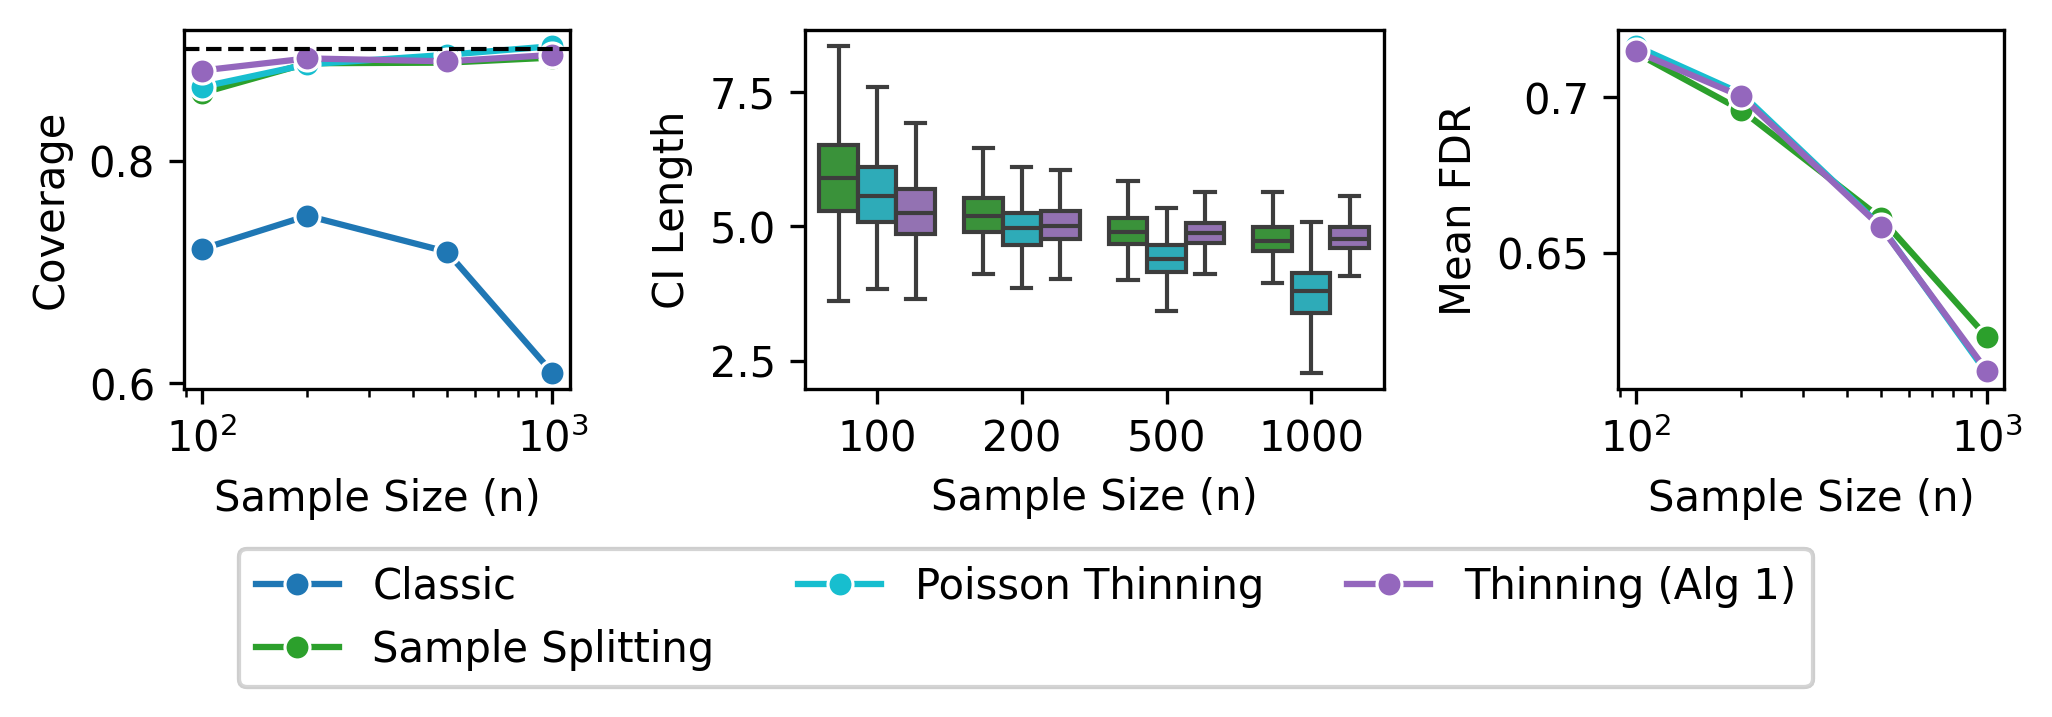
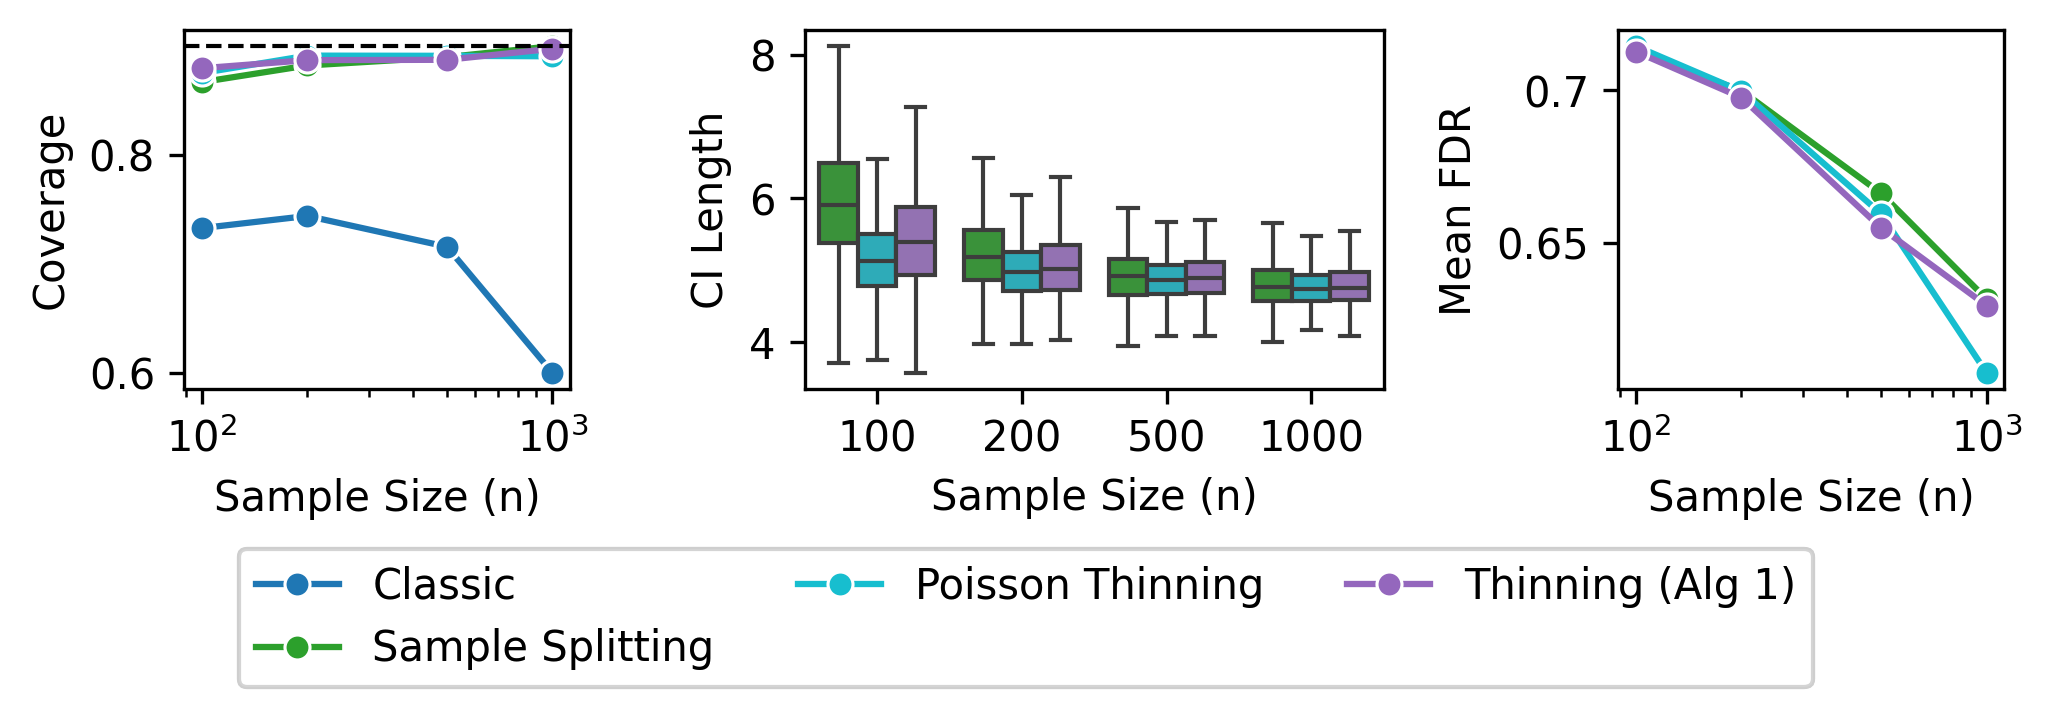
poisson overdispered

diff --git a/experiments/glm_confints.py b/experiments/glm_confints.py
@@ -229,9 +229,9 @@ def poisson_thinning_si(X, Y, mu, penalty, level, gamma, intercept):
 
     epsilon = gamma / (1 + gamma) mirrors the sample-splitting convention.
 
-    An intercept is always included: Y_thin ~ Poisson(epsilon*mu) =
-    Poisson(exp(X beta + log(epsilon))), so the intercept absorbs log(epsilon)
-    and the slope estimands are identical to those of classic_si.
+    Both halves are rescaled by their epsilon factors to restore mean mu,
+    so no intercept offset adjustment is required and the intercept flag
+    is respected as-is.
     """
     n, _ = X.shape
     epsilon = gamma / (1 + gamma)
@@ -274,7 +274,7 @@ def poisson_thinning_si(X, Y, mu, penalty, level, gamma, intercept):
         sum(cover),
         sum(rejects),
         sum(np.abs(beta_est - beta_sel)),
-        len(sel) + 1,  # +1 for the always-included intercept
+        len(sel) + intercept,
         sum(length),
         ",".join(map(str, sel)),
     ]
@@ -296,12 +296,15 @@ def negbinom_thinning_si(X, Y, mu, penalty, level, gamma, intercept, theta=None)
     adjustment is needed.
 
     epsilon = gamma / (1 + gamma) mirrors the sample-splitting convention.
-    An intercept is always included.
+    Both halves are rescaled by their epsilon factors to restore mean mu,
+    so no intercept offset adjustment is required and the intercept flag
+    is respected as-is.
 
     When ``theta`` is ``None`` (the default), it is estimated from the full
     data via an initial unpenalized (n > p) or penalized (n <= p) NB GLM
     fit with IRLS, analogous to how ``thin_outcomes_si`` estimates the
-    working variance when ``Y_var`` is not supplied.
+    working variance when ``Y_var`` is not supplied.  The estimated theta
+    is then used for all subsequent thinning and fitting steps.
     """
     from scipy.stats import betabinom as _betabinom
 
@@ -337,7 +340,7 @@ def negbinom_thinning_si(X, Y, mu, penalty, level, gamma, intercept, theta=None)
         )
 
     sel = (
-        GLM(family="negative_binomial", l1_penalty=penalty, intercept=intercept)
+        GLM(family="negative_binomial", l1_penalty=penalty, intercept=intercept, theta=theta)
         .fit(X, Y_train)
         .active()
     )
@@ -346,7 +349,7 @@ def negbinom_thinning_si(X, Y, mu, penalty, level, gamma, intercept, theta=None)
         return [0, 0, 0, 0, 0, None]
 
     X_sel = X[:, sel]
-    model = GLM(family="negative_binomial", intercept=intercept).fit(X_sel, Y_thin)
+    model = GLM(family="negative_binomial", intercept=intercept, theta=theta).fit(X_sel, Y_thin)
     beta_est = model.beta_
     conf_int = model.conf_int(X_sel, level=level)
     length = conf_int[:, 1] - conf_int[:, 0]
@@ -360,7 +363,7 @@ def negbinom_thinning_si(X, Y, mu, penalty, level, gamma, intercept, theta=None)
         sum(cover),
         sum(rejects),
         sum(np.abs(beta_est - beta_sel)),
-        len(sel) + 1,  # +1 for always-included intercept
+        len(sel) + intercept,
         sum(length),
         ",".join(map(str, sel)),
     ]
@@ -385,19 +388,23 @@ def thin_outcomes_si(
     if glm_kwargs is None:
         glm_kwargs = {}
 
+    # Use overdispersed variance for Poisson to account for extra-Poisson variation
+    # in the noise scaling; for other families the model variance is already adequate.
+    overdispersed = family == "poisson"
+
     if Y_var is not None:
         Y_var_noise = Y_var
     elif X.shape[0] > X.shape[1] + 1:  # n > p
         Y_var_noise = (
             GLM(family=family, intercept=True, **glm_kwargs)
             .fit(X, Y)
-            .get_var(X, Y, error_model, clusters=clusters)
+            .get_var(X, Y, error_model, clusters=clusters, overdispersed=overdispersed)
         )
     else:  # p > n
         Y_var_noise = (
             GLM(family=family, intercept=True, l1_penalty=penalty, **glm_kwargs)
             .fit(X, Y)
-            .get_var(X, Y, error_model, clusters=clusters)
+            .get_var(X, Y, error_model, clusters=clusters, overdispersed=overdispersed)
         )
 
     if clusters is not None:
@@ -845,7 +852,9 @@ def run_simulation(
         else:
             Y = np.random.poisson(mu).astype(float)
         if true_noise_var:
-            Y_var = mu * dispersion # Poisson variance equals mean
+            # Poisson variance equals mean. Otherwise,
+            # the overdisped NB variance, mu + mu**2 / nb_disp.
+            Y_var = mu * dispersion
 
     elif family == "negative_binomial":
         if misspecified in ("var", "both"):

diff --git a/m_estimation_SI/penalized_glm.py b/m_estimation_SI/penalized_glm.py
@@ -73,6 +73,13 @@ class GLM:
         :meth:`fit`).  Equals the user-supplied ``theta`` when provided,
         or the IRLS estimate when ``theta=None``.  ``None`` for all other
         families.
+    phi_ : float
+        Pearson overdispersion estimate (set after :meth:`fit`).
+        Computed as ``(1 / dof) * sum((y - mu)^2 / V(mu))`` where
+        ``V(mu)`` is the GLM variance function and ``dof = n - p``
+        (number of non-zero coefficients).  A value near 1 indicates a
+        well-calibrated model; values appreciably above 1 indicate
+        overdispersion relative to the fitted family.
 
     Examples
     --------
@@ -138,6 +145,7 @@ class GLM:
         self.loss_ = None
         self.residuals_ = None
         self.theta_ = None
+        self.phi_ = None
 
     def fit(self, X: np.ndarray, y: np.ndarray) -> "GLM":
         """Fit the model.
@@ -165,6 +173,11 @@ class GLM:
             self._solve_problem(X_fit, y)
         self.theta_ = self.theta if self.family == "negative_binomial" else None
         self.residuals_ = y - self.predict(X)
+        # Pearson overdispersion: (1/dof) * sum((y - mu)^2 / V(mu))
+        mu_fit = self.loss_.predict_(X_fit, self.beta_)
+        V_fit = self.loss_.get_model_var_(X_fit, self.beta_)
+        dof = max(X_fit.shape[0] - int(np.sum(self.beta_ != 0)), 1)
+        self.phi_ = float(np.sum((y - mu_fit) ** 2 / np.maximum(V_fit, 1e-10)) / dof)
         return self
 
     def _solve_problem(self, X: np.ndarray, y: np.ndarray):
@@ -348,6 +361,7 @@ class GLM:
         Y: np.ndarray,
         error_model=None,
         clusters=None,
+        overdispersed: bool = False,
     ):
         """Estimate outcome variances under a working error model.
 
@@ -369,6 +383,12 @@ class GLM:
         clusters : ndarray of shape (n_samples,) or None
             Integer cluster labels.  Required when
             ``error_model='clustered'``.
+        overdispersed : bool, default False
+            If ``True``, scale the model-based variance by the fitted
+            Pearson overdispersion ``phi_``, i.e. return
+            ``phi_ * V(mu_i)`` per observation.  This replaces the
+            raw ``get_var_`` estimate and is applied before any
+            ``error_model`` pooling.
 
         Returns
         -------
@@ -386,7 +406,10 @@ class GLM:
         X_fit = np.hstack([np.ones((X.shape[0], 1)), X]) if self.intercept else X
         n, p = X_fit.shape
 
-        var_est = self.loss_.get_var_(X_fit, self.beta_, Y)
+        if overdispersed:
+            var_est = self.phi_ * self.loss_.get_model_var_(X_fit, self.beta_)
+        else:
+            var_est = self.loss_.get_var_(X_fit, self.beta_, Y)
 
         if error_model == "homogeneous":
             pdim = np.sum(self.beta_ != 0)

diff --git a/m_estimation_SI/losses.py b/m_estimation_SI/losses.py
@@ -147,6 +147,10 @@ class logistic_loss_smooth(smooth_atom):
         mu = self.predict_(X, beta)
         return mu * (1 - mu)
 
+    def get_model_var_(self, X: np.ndarray, beta: np.ndarray) -> np.ndarray:
+        """GLM variance function V(mu) = mu(1-mu) for the Bernoulli family."""
+        return self.get_var_(X, beta)
+
 
 class least_squares_loss_smooth(smooth_atom):
     """Mean-scaled least-squares loss for linear regression.
@@ -266,6 +270,10 @@ class least_squares_loss_smooth(smooth_atom):
         """
         return (y - X @ beta) ** 2
 
+    def get_model_var_(self, X: np.ndarray, _beta: np.ndarray) -> np.ndarray:
+        """GLM variance function V(mu) = 1 for the Gaussian family."""
+        return np.ones(X.shape[0])
+
 
 class poisson_loss_smooth(smooth_atom):
     """Mean-scaled negative log-likelihood for Poisson regression.
@@ -383,6 +391,10 @@ class poisson_loss_smooth(smooth_atom):
         ndarray of shape (n_samples,)
             ``exp(x_i^\\top beta)`` for each observation.
         """
+        return self.predict_(X, beta)
+
+    def get_model_var_(self, X: np.ndarray, beta: np.ndarray) -> np.ndarray:
+        """GLM variance function V(mu) = mu for the Poisson family."""
         return self.predict_(X, beta)
 
 
@@ -519,3 +531,7 @@ class negative_binomial_loss_smooth(smooth_atom):
         """
         mu = self.predict_(X, beta)
         return mu + mu ** 2 / self.theta
+
+    def get_model_var_(self, X: np.ndarray, beta: np.ndarray) -> np.ndarray:
+        """GLM variance function V(mu) = mu + mu^2/theta for the NB family."""
+        return self.get_var_(X, beta)

diff --git a/experiments/plot_coverage.py b/experiments/plot_coverage.py
@@ -47,7 +47,7 @@ def load_data(fname):
 
 # %%
 def main(
-    fname, out_path, ref=None, level=0.9, x="n", x_label="Sample Size (n)", logx=False, exclude=None
+    fname, out_path, ref=None, level=0.9, x="n", x_label="Sample Size (n)", logx=False, exclude=None, ncol=3,
 ):
 
     coverage_df = load_data(fname)
@@ -205,7 +205,7 @@ def main(
         hue_handles[1:],  # removes "title"
         hue_labels[1:],
         loc="lower center",
-        ncol=3,#len(hue_labels),
+        ncol=ncol,#len(hue_labels),
         bbox_to_anchor=(0.5, -0.22),
         title = "",
         # frameon=False,
@@ -248,6 +248,7 @@ if __name__ == "__main__":
     parser.add_argument("--exclude", type=str, default=None)
     parser.add_argument("--x_label", type=str, default="Sample Size (n)")
     parser.add_argument("--logx", action="store_true", default=False)
+    parser.add_argument("--ncol", type=int, default=3)
     args = parser.parse_args()
 
     main(
@@ -258,6 +259,7 @@ if __name__ == "__main__":
         x_label=args.x_label,
         logx=args.logx,
         exclude=args.exclude,
+        ncol=args.ncol,
     )
 
 # %%
